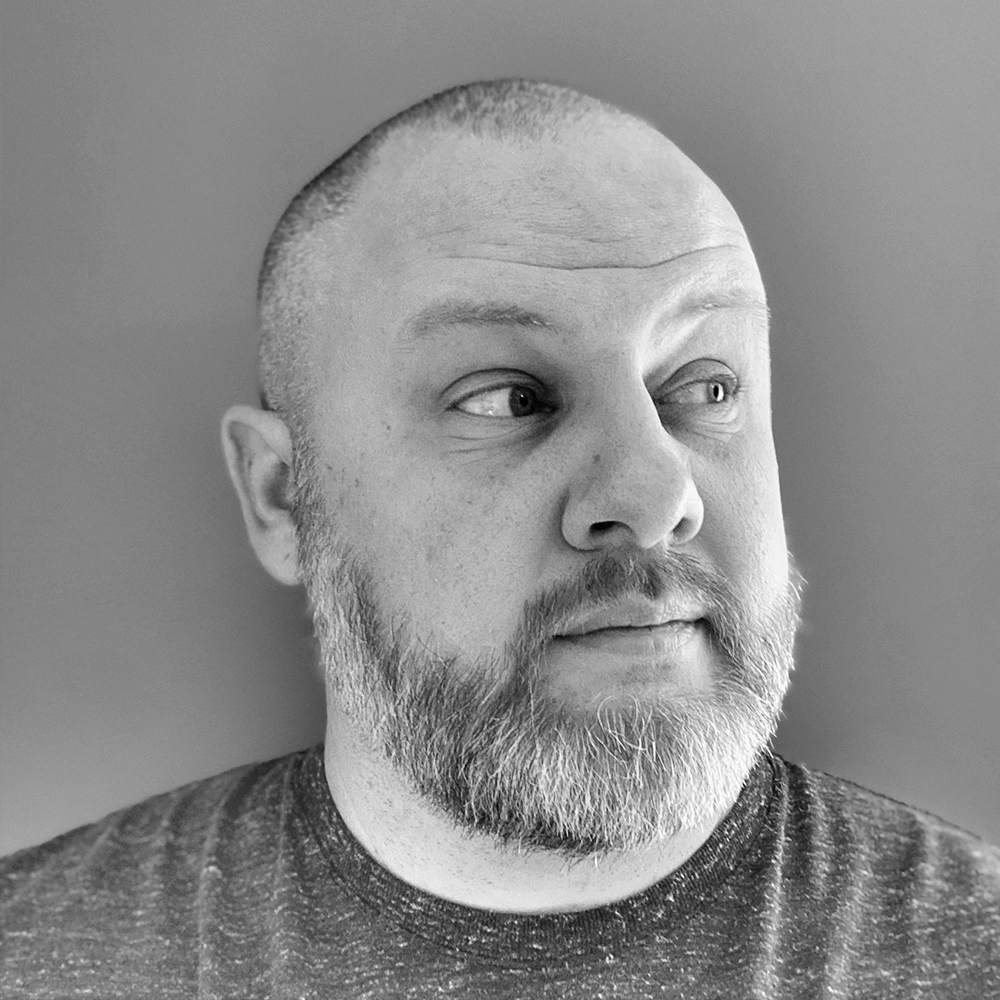
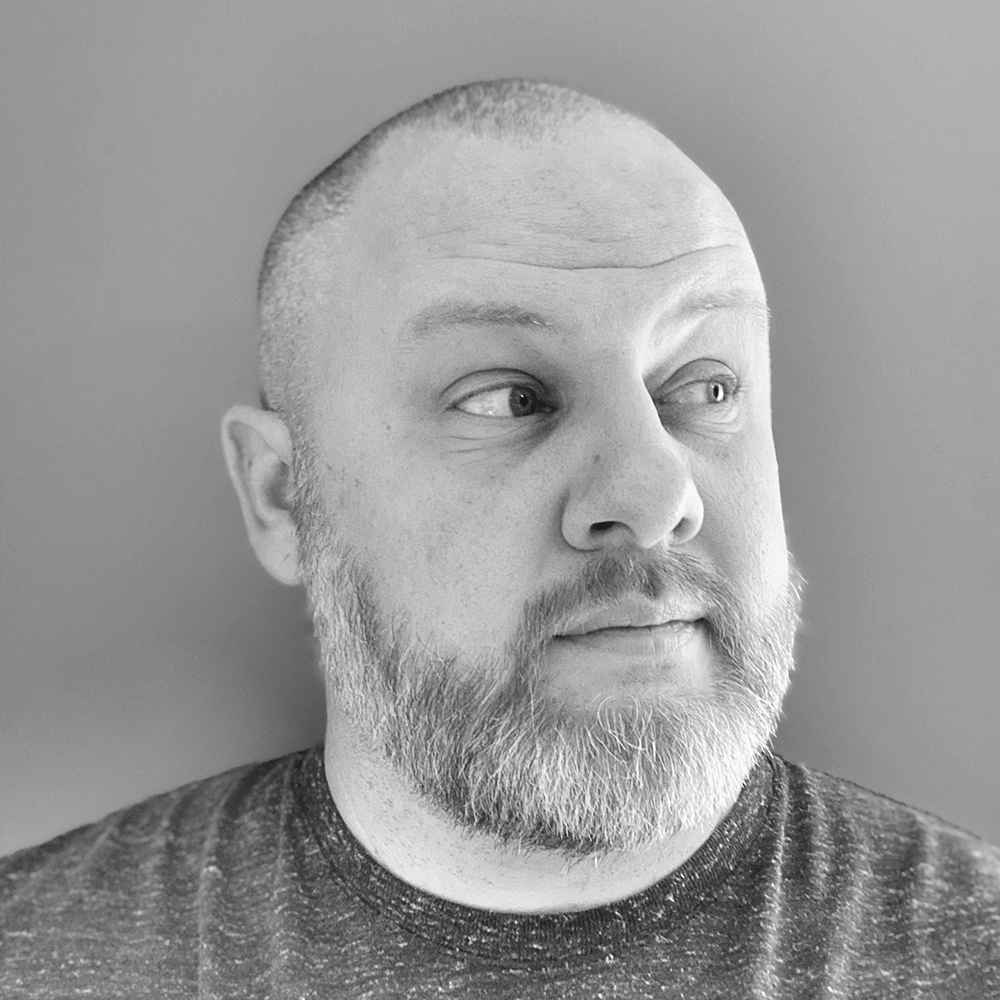
!

diff --git a/style.css b/style.css
@@ -376,7 +376,6 @@ website: 	http://blankenship.xyz
 /* 2021 */
 
 	.headshot { 
-		border: 2px solid black; 
 		border-radius: 50%; 
 	}
 
@@ -421,7 +420,7 @@ website: 	http://blankenship.xyz
 	.nologos li {
 		margin-bottom:  2.5rem;
 	}
-	
+
 	section p {
 		font: 400 1.3vw/1.6vw "futura-pt", sans-serif;
 	}
